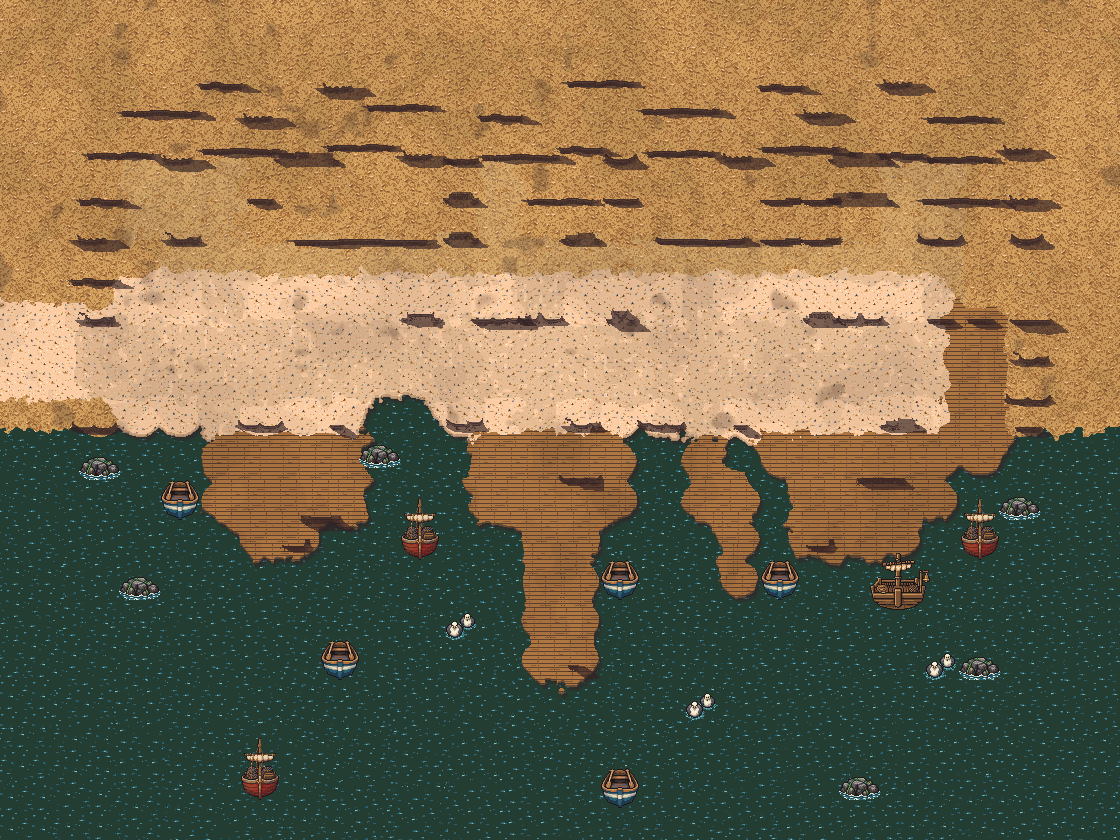
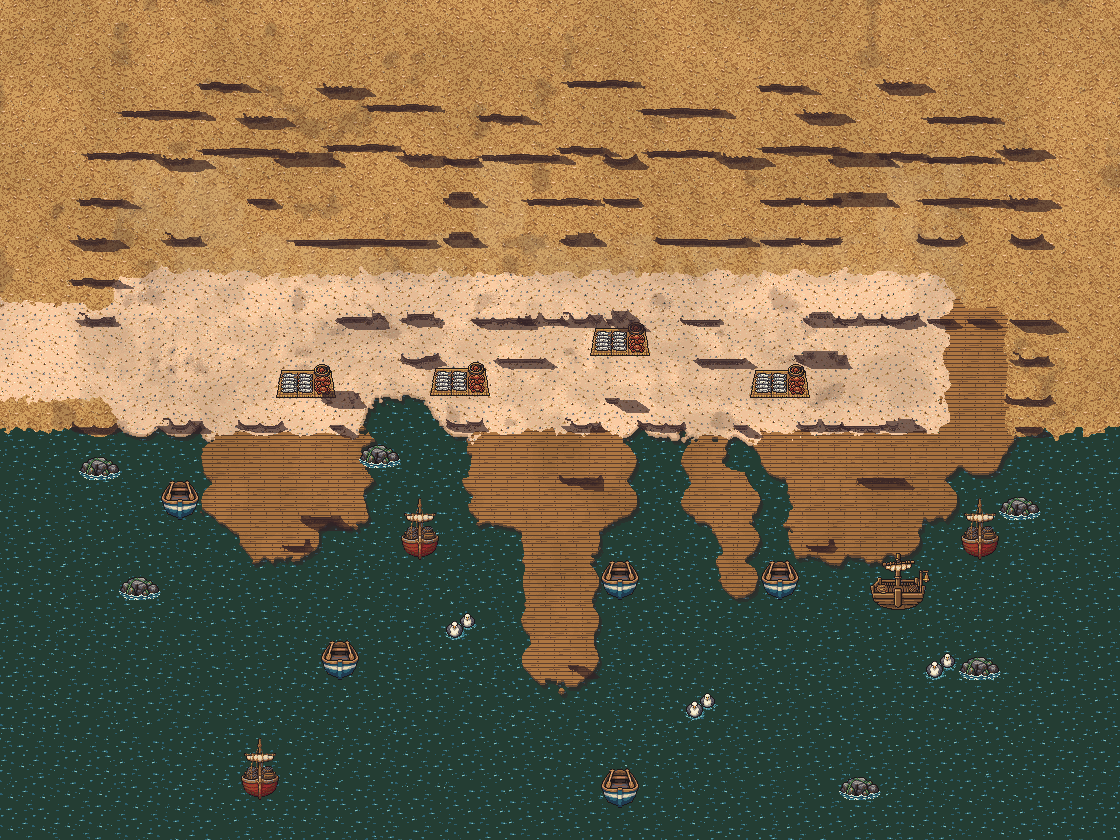
Fill the market's quay with stalls, carts, crates and mats
Claude-Session: https://claude.ai/code/session_01H8JDTPYztrZvUL5HBCK6eR

diff --git a/src/content/scenes/rg02.topdown.ts b/src/content/scenes/rg02.topdown.ts
@@ -175,6 +175,26 @@ export const SALTSTEP_MARKET_OBJECTS: readonly TopDownObject[] = [
   piece('nets', 'net_pile', 'prop', [[14, 7]], true, { base: -14 }),
   piece('lamp_east', 'dock_lamp', 'prop', [[16, 7]], true, { base: -14 }),
   piece('quay_table', 'fish_table', 'prop', [[20, 7]], true, { base: -14 }),
+  // The quay's middle (the market's second density pass): a frontage of stalls, jars and crates along row 4, and stall
+  // islands staggered through the lane, a row of the lane always open beside each, with mats of fish, a lantern post
+  // and a cart between. Earth Kingdom pieces throughout.
+  flip(piece('mid_parasol_w', 'ek_stall_parasol', 'prop', block(6, 7, 4, 4), true)),
+  piece('mid_jars', 'clay_jars', 'prop', [[12, 4]], true),
+  flip(piece('mid_crates_n', 'fish_crates', 'prop', [[15, 4]], true)),
+  piece('mid_baskets_ne', 'basket_tower', 'prop', [[20, 4]], true),
+  piece('mid_cart', 'ek_cart', 'prop', [[6, 6]], true),
+  piece('mid_tower_w', 'basket_tower', 'prop', [[8, 5]], true),
+  piece('mid_stall_green', 'ek_stall_green', 'prop', block(10, 11, 5, 5), true),
+  piece('mid_lantern', 'lantern_post', 'prop', [[13, 6]], true),
+  flip(piece('mid_stall_green_e', 'ek_stall_green', 'prop', block(15, 16, 5, 5), true)),
+  piece('mid_hang', 'fish_hang', 'prop', [[18, 5]], true),
+  piece('mid_jars_sw', 'clay_jars', 'prop', [[2, 7]], true, { base: -14 }),
+  flip(piece('mid_baskets_se', 'fish_baskets', 'prop', [[18, 7]], true, { base: -14 })),
+  piece('mid_crates_se', 'fish_crates', 'prop', [[19, 7]], true, { base: -14 }),
+  piece('mat_a', 'fish_mat', 'flat', [[9, 6]], false, { base: -4 }),
+  flip(piece('mat_b', 'fish_mat', 'flat', [[13, 5]], false, { base: -4 })),
+  piece('mat_c', 'fish_mat', 'flat', [[17, 6]], false, { base: -2 }),
+  flip(piece('mat_d', 'fish_mat', 'flat', [[5, 6]], false, { x: 6, base: -2 })),
   // The jetties: the broth stall's, the customs stall behind its clerk, the fish stall by the ferry landing, bollards
   // and the tide pole at the end of the customs pier.
   piece('broth_stall', 'stall_broth', 'prop', block(5, 6, 9, 9), true),

diff --git a/src/content/regions/saltstepEmberwatch/maps.ts b/src/content/regions/saltstepEmberwatch/maps.ts
@@ -97,7 +97,9 @@ export const SALTSTEP_MARKET: MapDef = {
    * bites into it at an inlet (row 7). The jetties reach out at different lengths: the broth
    * stall's, the customs pier (the longest), a crooked landing stage and the ferry landing to the
    * east. Stalls (`G`), bollards and the tide pole (`F`) and the quay's scatter (`n`, `u`) are
-   * blocked cells their pieces stand on; rows 5-6 and column 3 stay open, and the rim walkable
+   * blocked cells their pieces stand on; the quay's middle is dressed with stalls, carts and crates staggered between
+   * rows 5 and 6 so one row of the lane is always open (each island has a gap of both rows beside it), column 3 stays
+   * open, and the rim walkable
    * only at the coast road's mouth.
    */
   rows: [
@@ -105,10 +107,10 @@ export const SALTSTEP_MARKET: MapDef = {
     'U,,,uBBBBu,UUuBBBBBu,UUU',
     'U,u,,BBBBu,,u,BBBBB,,u,U',
     'U,,,,,,,,,,,,,,,,,,,,,,U',
-    'U:::::::n:nn:n::::nn:nUU',
-    '==::::::::::::::::::::wU',
-    '==::::::::::::::::::::wU',
-    'U:::n:nWWn::n:n:n:::n:wU',
+    'U:::::nnn:nnnn:n::nnnnUU',
+    '==::::::n:nn:::nn:n:::wU',
+    '==::::n::::::n::::::::wU',
+    'U:n:n:nWWn::n:n:n:nnn:wU',
     'WWWwwwwWWWwwGwWwWwwGGwwW',
     'WWWwwGGWWWwwwwWwwWwwwwWW',
     'WWWWwFWWWWWwwWWWwWFwwWWW',

diff --git a/docs/pipeline-trial-log.md b/docs/pipeline-trial-log.md
@@ -275,6 +275,7 @@ before and after each batch as a cross-check (the key is shared with other proje
 | 6b. Density: the pontoon                                                                   |       56 |     56 | 5,282 → 5,226                                                                   | Eleven pieces: the big cargo barge (the landmark, a second take: the first came back end-on), a dock crane, a pulley gantry, tarped cargo, oil drums, chains, pilings, rope lines, buoys and a gangway (not used). 34 standing pieces and about 27 flats on the water and the deck, from 6.                                                                                                                                                                                                                                                                                                                                                                                                                                                             |
 | 6c. Density: the parade ground, a Fire Nation outpost (owner: "follow the game's lore")    |       64 |     65 | 5,171 → 5,106                                                                   | Twelve pieces: the old signal tower (the landmark), a barracks front, a red wall section with flame crests, braziers, flame banners, a flag mast, a lantern shrine, an army tent, straw targets, a sparring ring, a rock spur and boulders. The board became a walled outpost: the wall along the north, the tower standing tall at its east corner, a rock spur down the west side and a rocky south-east shoulder, with the bay biting into the south-west. 46 standing pieces and about 10 flats, from 22. About 70 minutes. Six pieces on the last row cast their shadows into the void past the south edge; they are nudged up 12 px so the shadow lands on the ground.                                                                            |
 | 6d. Density: the power yard                                                                |       40 |     41 | 5,106 → 5,065                                                                   | Eight pieces, in the outpost's Fire Nation style: Luli's generator shed (the landmark, its hanging cables trimmed from the sprite so its cast stays joined), copper coils, transformer drums, warning signs, cable reels, crates of insulators, a switch panel and cables lying across the ground (one call had to be redone: a 32 px canvas is shorter than the style reference). The yard is pinched between the shed in the north-west corner, where the live line now starts, and a low rocky rise on the south side; its clutter lines the rim, carried one cell past the grid (`Rg02Terrain`'s new `ends`), so the edge stays ragged. Eight walkable cells went; the balance tripwire passes (233 of 240 measures unchanged to the digit, largest | z   | 1.85). 41 standing pieces, from 10. About 60 minutes. |
+| 6e. The market, one more pass (owner)                                                      |       45 |     45 | 5,065 → 4,993 (the key is shared; 45 booked)                                    | Nine pieces in the Earth Kingdom style (each prompt names it, as in the Avatar animated style, and says what it is not: not European, no half-timbering, no chimney): two market stalls (a green glazed canopy, a jade paper parasol), a merchant's handcart with a green canopy, fish crates, a bamboo frame hung with dried fish and squid, glazed clay jars, a tower of woven baskets, a bamboo lantern post and a reed mat of fish (a flat). All first takes, 5 credits each, no retakes. 17 pieces went onto the quay's wide sand (13 standing, 4 mats), with the lane's rows 5 and 6 staggered so one row is always open; the soft ground edges are a baker option (`wear.soft`), used by the market only.                                        |
 
 ### Building the boards
 
@@ -331,6 +332,13 @@ most of it. What cost time:
   animated style", and says what it is not. The town was loosened at the same time: houses staggered off row 0 by
   varied base offsets and flips, with pines, a well, a shrine and washing in the gaps, and alleys in the lane. Ba
   Dan's houses show the same European drift; that is the owner's call and is not changed here.
+- **The market again, filling the quay: about 50 minutes and 45 credits** (owner, 2026-11-17: the open sand in the middle
+  read empty at 1x; the wet patches read as square stains). Ba Dan's density was the reference. The baker's `wear.soft`
+  option breaks the ground's colour drift, the quilt's seams, the wet patches and the worn paths with a per-pixel
+  jitter, as the Wang tiles' edges are, so none of them follows a straight or square line; it is on for the market
+  only, and the other boards' plates are byte-for-byte unchanged. Sixteen more cells of the quay are blocked (stalls,
+  jars, crates, baskets, a lantern post), each island of the lane (rows 5 and 6) has a gap of both rows beside it, and
+  `reach.test.ts` still holds every NPC, trigger and exit reachable.
 
 | Board                    | State                                                                                                                                                                                                                                                                                                                                                    |
 | ------------------------ | -------------------------------------------------------------------------------------------------------------------------------------------------------------------------------------------------------------------------------------------------------------------------------------------------------------------------------------------------------- |

diff --git a/docs/art/prompts/maps/saltstep_market.md b/docs/art/prompts/maps/saltstep_market.md
@@ -22,8 +22,8 @@ Saltstep, a market town built out over a grey bay.
 - Trees (49 tiles): 47 tiles (top centre), row 0: columns 0–23; row 1: columns 0, 4, 9, 11–13, 19 and 21–23; row 2: columns 0, 9, 12, 21 and 23; row 3: columns 0 and 23; row 4: columns 0 and 22–23; rows 5–7: column 23; one tile at column 2, row 2 (top left); one tile at column 0, row 7 (middle left).
 - Timber walls (21 tiles): a 5×2 block at columns 14–18, rows 1–2 (top right); a 4×2 block at columns 5–8, rows 1–2 (top left); one tile at column 5, row 10 (middle left); one tile at column 18, row 10 (middle right); one tile at column 12, row 13 (bottom centre).
 - Barred timber gates (5 tiles): a 2×1 block at columns 19–20, row 8 (middle right); a 2×1 block at columns 5–6, row 9 (middle left); one tile at column 12, row 8 (the centre).
-- Stone walls (164 tiles): 152 tiles (bottom centre), row 7: columns 6–9 and 14; row 8: columns 0–2, 7–9, 14 and 23; row 9: columns 0–2, 7–9, 14, 17 and 22–23; row 10: columns 0–3, 6–10, 13–15, 17 and 21–23; row 11: columns 0–10, 13–15 and 17–23; rows 12–13: columns 0–10 and 13–23; rows 14–15: columns 0–23; a 2×1 block at columns 10–11, row 4 (top centre); a 2×1 block at columns 18–19, row 4 (top right); a 1×2 block at column 16, rows 7–8 (middle right); one tile at column 8, row 4 (top centre); one tile at column 13, row 4 (top centre); one tile at column 21, row 4 (top right); one tile at column 4, row 7 (middle left); one tile at column 12, row 7 (the centre); one tile at column 20, row 7 (middle right).
-- Sand (66 tiles): 66 tiles (the centre), row 4: columns 1–7, 9, 12, 14–17 and 20; rows 5–6: columns 2–21; row 7: columns 1–3, 5, 10–11, 13, 15, 17–19 and 21.
+- Stone walls (180 tiles): 154 tiles (bottom centre), row 6: column 6; row 7: columns 2, 6–9 and 14; row 8: columns 0–2, 7–9, 14 and 23; row 9: columns 0–2, 7–9, 14, 17 and 22–23; row 10: columns 0–3, 6–10, 13–15, 17 and 21–23; row 11: columns 0–10, 13–15 and 17–23; rows 12–13: columns 0–10 and 13–23; rows 14–15: columns 0–23; 6 tiles (top centre), row 4: columns 10–13; row 5: columns 10–11; 5 tiles (top right), row 4: columns 18–21; row 5: column 18; 4 tiles (top left), row 4: columns 6–8; row 5: column 8; 3 tiles (top centre), row 4: column 15; row 5: columns 15–16; a 3×1 block at columns 18–20, row 7 (middle right); a 1×2 block at column 16, rows 7–8 (middle right); one tile at column 13, row 6 (the centre); one tile at column 4, row 7 (middle left); one tile at column 12, row 7 (the centre).
+- Sand (50 tiles): 48 tiles (the centre), row 4: columns 1–5, 9, 14 and 16–17; row 5: columns 2–7, 9, 12–14, 17 and 19–21; row 6: columns 2–5, 7–12 and 14–21; row 7: columns 3, 5, 10–11, 15, 17 and 21; one tile at column 1, row 7 (middle left); one tile at column 13, row 7 (the centre).
 - Plank floors (39 tiles): 14 tiles (bottom centre), row 8: columns 10–11 and 13; row 9: columns 10–13; rows 10–12: columns 11–12; row 13: column 11; 13 tiles (middle right), rows 5–7: column 22; row 8: columns 17–18 and 21–22; row 9: columns 18–21; row 10: columns 19–20; 7 tiles (middle left), row 8: columns 3–6; row 9: columns 3–4; row 10: column 4; 5 tiles (the centre), row 8: column 15; row 9: columns 15–16; rows 10–11: column 16.
 - Open ground everywhere else: grass (36 tiles).
 - The party enters from the left, standing at (1, 5), (1, 6), (2, 5), (2, 6), (1, 4), (2, 4); enemies come from the right. Paint nothing there that would read as an object to walk round.
@@ -35,10 +35,10 @@ UUUUUUUUUUUUUUUUUUUUUUUU
 U,,,uBBBBu,UUuBBBBBu,UUU
 U,u,,BBBBu,,u,BBBBB,,u,U
 U,,,,,,,,,,,,,,,,,,,,,,U
-U:::::::n:nn:n::::nn:nUU
-==::::::::::::::::::::wU
-==::::::::::::::::::::wU
-U:::n:nWWn::n:n:n:::n:wU
+U:::::nnn:nnnn:n::nnnnUU
+==::::::n:nn:::nn:n:::wU
+==::::n::::::n::::::::wU
+U:n:n:nWWn::n:n:n:nnn:wU
 WWWwwwwWWWwwGwWwWwwGGwwW
 WWWwwGGWWWwwwwWwwWwwwwWW
 WWWWwFWWWWWwwWWWwWFwwWWW
